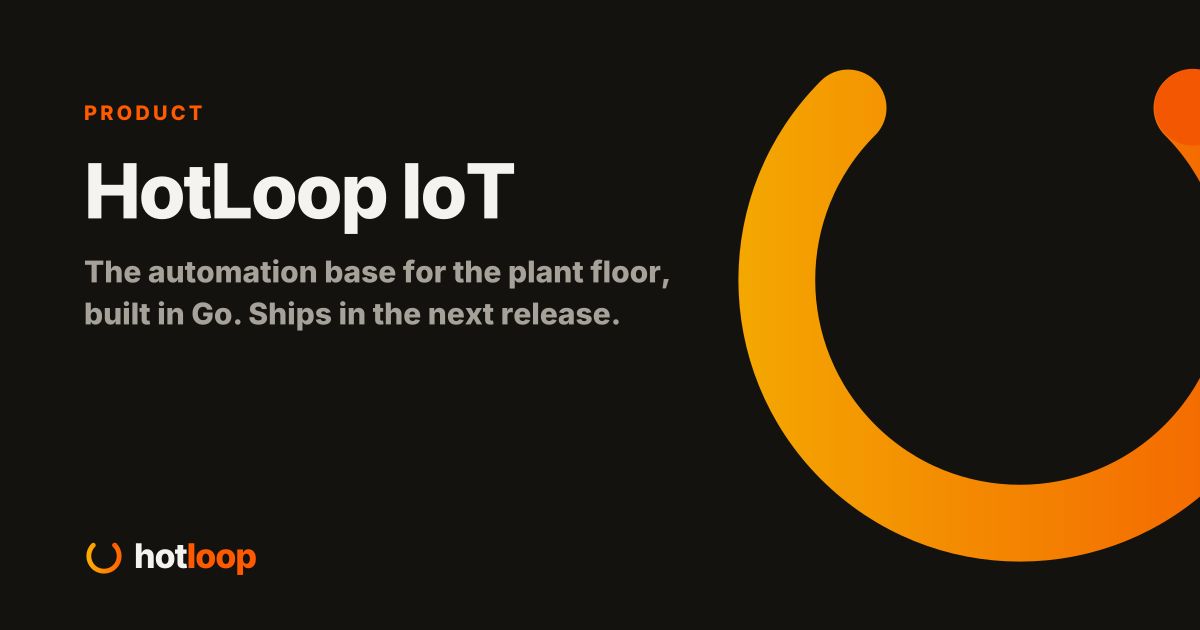
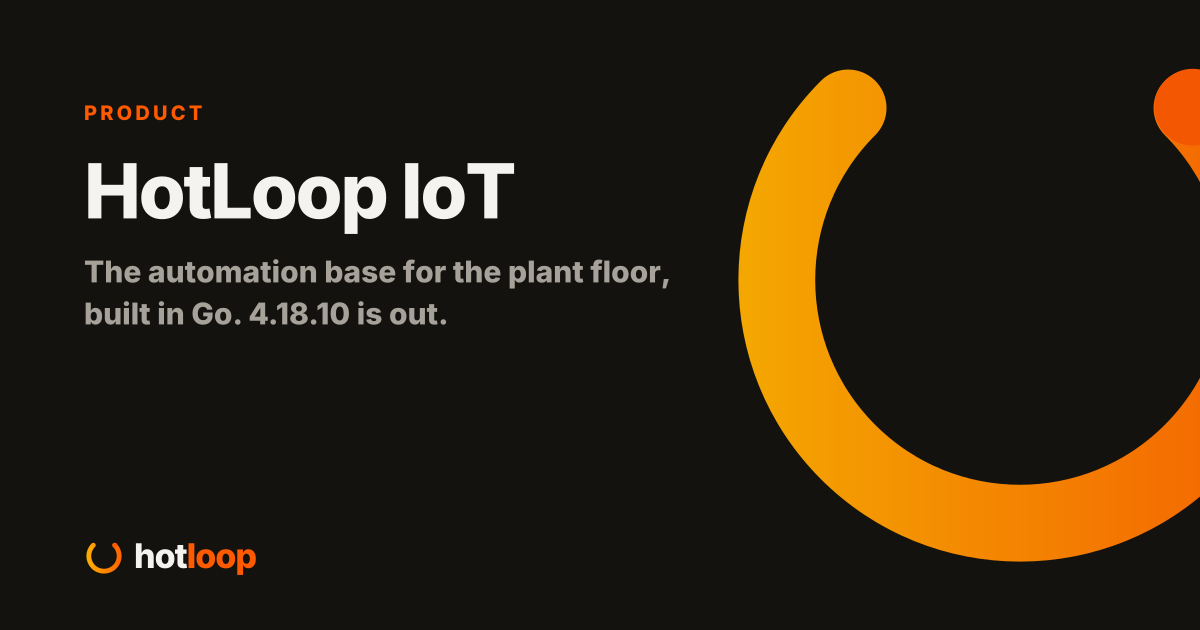
feat: say 4.18.10 is out and fill in iot and edge as released products
the site still said 4.17.0 and told people iot and edge were next release. all four images and charts are public now, so the version, the product pages, the release notes and the unifi page say what shipped, with what isn't proven written down next to it.

Changed region(s): [[0.185, 0.4825, 0.5242, 0.5429]]

diff --git a/src/lib/products.ts b/src/lib/products.ts
@@ -13,7 +13,7 @@
 export type Status = 'released' | 'unverified' | 'main' | 'building' | 'planned';
 
 // The one published version. Change it here when the next release ships.
-export const CURRENT = '4.17.0';
+export const CURRENT = '4.18.10';
 
 export const STATUS: Record<Status, { label: string; chip: 'ok' | 'info' | 'warn' | 'none' }> = {
   released: { label: `In ${CURRENT}`, chip: 'ok' },
@@ -49,7 +49,9 @@ export const PRODUCTS: Product[] = [
     tagline: 'The automation base, built in Go for OT.',
     summary:
       'The base everything else is built on: entities, automations, helpers, scripts, the logbook, dashboards, notifications, MCP, and MQTT with discovery, plus every protocol driver HotLoop has.',
-    installable: false,
+    installable: true,
+    image: 'ghcr.io/hotloop-io/hotloop-iot',
+    chart: 'hotloop-iot',
     databases: 'SQLite or PostgreSQL',
     adds: 'The base',
   },
@@ -60,7 +62,9 @@ export const PRODUCTS: Product[] = [
     tagline: 'IoT plus the machine layer.',
     summary:
       'Everything in IoT, plus what lives next to a machine: HMI screens, PLCs, CODESYS and Pi PLCs, store-and-forward upstream, and an OPC UA server.',
-    installable: false,
+    installable: true,
+    image: 'ghcr.io/hotloop-io/hotloop-edge',
+    chart: 'hotloop-edge',
     databases: 'SQLite, PostgreSQL or TimescaleDB',
     adds: 'HMI, store-and-forward, OPC UA server',
   },
@@ -75,7 +79,6 @@ export const PRODUCTS: Product[] = [
     image: 'ghcr.io/hotloop-io/hotloop',
     chart: 'hotloop',
     databases: 'SQLite, PostgreSQL or TimescaleDB',
-    databasesToday: 'TimescaleDB, or plain PostgreSQL. SQLite is merged and ships in the next release, in the same image.',
     adds: 'Fleet, multi-site, reports',
   },
   {
@@ -111,32 +114,32 @@ export const IOT_FEATURES: Feature[] = [
   { name: 'Scripts', status: 'released', note: 'Write the CIP cycle once, name it, run it from a rule, a screen, MCP or its own entity. A dry run goes through the real gate, so you see the refusal before anything moves.' },
   { name: 'Recipes', status: 'released', note: 'Grade A\'s setpoints off the laminated sheet and into the plant in one go: checked whole, refused whole, written in order and read back from the device.' },
   { name: 'Blueprints', status: 'released', note: 'Write a rule once with blanks and fill it in per pump. Each rule keeps the blueprint version it was made from, so one edit never quietly changes forty rules.' },
-  { name: 'Dashboards', status: 'main', note: 'A card builder with drag and drop: gauges, numbers, trends, entity lists, write buttons, script and recipe buttons, alarm lists, cameras and a floor plan. One layout folds from twelve columns on a panel PC to one on a phone, so nobody ever builds the phone version. A card commands nothing itself, so a button still meets the write gate.' },
+  { name: 'Dashboards', status: 'released', note: 'A card builder with drag and drop: gauges, numbers, trends, entity lists, write buttons, script and recipe buttons, alarm lists, cameras and a floor plan. One layout folds from twelve columns on a panel PC to one on a phone, so nobody ever builds the phone version. A card commands nothing itself, so a button still meets the write gate.' },
   { name: 'ISA-18.2 alarms', status: 'released', note: 'rtn-unack included, so a trip that fixed itself is still there at shift change. Shelving ends, and unshelve brings the alarm back in the state it\'s really in.' },
   { name: 'Notifications', status: 'released', note: 'ntfy, Gotify, Discord, webhooks and email. Press Acknowledge on your phone and the alarm is acknowledged, signed and single use.' },
   { name: 'MCP', status: 'released', note: 'An agent can read the whole plant and touch only what you armed, through the write gate, and never without a stated reason, which goes in the system log next to the write.' },
   { name: 'MQTT and an embedded broker', status: 'released', note: 'Plain topics with JSON paths, Sparkplug B, and a broker in the same process, so one box can be the whole install.' },
-  { name: 'MQTT discovery', status: 'main', note: 'ESPHome, Zigbee2MQTT, Tasmota and Shelly Gen2 and later show up on their own, reading, on the embedded broker or any other. Nothing is armed until a person accepts the device and arms each point, so a device announcing itself never earns the right to flip a relay. Proven against recordings of real devices, not yet a bench of them.' },
-  { name: 'Network discovery', status: 'main', note: 'mDNS and SSDP are overheard, and DHCP is heard if the deployment allows it. Finds land next to the MQTT devices with what they are and how HotLoop could talk to them. Probing stays off until a network is named, because a port sweep has knocked over PLCs. Nothing is added by itself.' },
-  { name: 'Broker logins with rules', status: 'main', note: 'A twelve dollar plug\'s login can\'t publish to the boiler\'s command topic. Logins made in HotLoop carry publish and subscribe rules from a profile, checked on every publish, subscription and outgoing message.' },
-  { name: 'Historian targets', status: 'main', note: 'Every reading also goes to the plant\'s own database: PostgreSQL and TimescaleDB, SQL Server, InfluxDB 2 and 3, MySQL and MariaDB. Same readings, same deadband, same quality. Polling never waits for a target, and one that falls behind catches up from HotLoop\'s own history.' },
-  { name: 'SQLite or PostgreSQL, your pick', status: 'main', note: 'The database is a setting. A Pi can run any product on a SQLite file with no second container and no 300 MB database image on the SD card. Moving between databases is a backup and a restore.' },
-  { name: 'Updates that roll themselves back', status: 'main', note: 'Boxes follow the stable tag and update themselves, and an update that can\'t pass its healthcheck is rolled back instead of reported as a success. That is only safe because migrations only add.' },
+  { name: 'MQTT discovery', status: 'released', note: 'ESPHome, Zigbee2MQTT, Tasmota and Shelly Gen2 and later show up on their own, reading, on the embedded broker or any other. Nothing is armed until a person accepts the device and arms each point, so a device announcing itself never earns the right to flip a relay. Proven against recordings of real devices, not yet a bench of them.' },
+  { name: 'Network discovery', status: 'released', note: 'mDNS and SSDP are overheard, and DHCP is heard if the deployment allows it. Finds land next to the MQTT devices with what they are and how HotLoop could talk to them. Probing stays off until a network is named, because a port sweep has knocked over PLCs. Nothing is added by itself.' },
+  { name: 'Broker logins with rules', status: 'released', note: 'A twelve dollar plug\'s login can\'t publish to the boiler\'s command topic. Logins made in HotLoop carry publish and subscribe rules from a profile, checked on every publish, subscription and outgoing message.' },
+  { name: 'Historian targets', status: 'released', note: 'Every reading also goes to the plant\'s own database: PostgreSQL and TimescaleDB, SQL Server, InfluxDB 2 and 3, MySQL and MariaDB. Same readings, same deadband, same quality. Polling never waits for a target, and one that falls behind catches up from HotLoop\'s own history.' },
+  { name: 'SQLite or PostgreSQL, your pick', status: 'released', note: 'The database is a setting. A Pi can run any product on a SQLite file with no second container and no 300 MB database image on the SD card. Moving between databases is a backup and a restore.' },
+  { name: 'Updates that roll themselves back', status: 'released', note: 'Boxes follow the stable tag and update themselves, and an update that can\'t pass its healthcheck is rolled back instead of reported as a success. That is only safe because migrations only add.' },
   { name: 'Every protocol driver', status: 'released', note: 'OPC UA, Modbus, MQTT and Sparkplug B, EtherNet/IP, S7comm, MTConnect and HTTP. Protocols don\'t split the products, so nobody runs the Gateway just to reach one PLC.' },
   { name: 'UniFi, read-only', status: 'released', note: 'Devices, ports, PoE, WAN failover and clients as tags, and a quiet PLC tells you which switch port it\'s on. WAN health comes from the console\'s own checks, so a backup link that\'s been dead for two days reads dead. Nothing writes to a console yet.' },
-  { name: 'UniFi screens and events', status: 'main', note: 'An overview with the WAN strip, a topology map laid out the same way every time, switch faceplates, clients, networks and WiFi, plus the console\'s event stream so a switch dropping off lands in the logbook in seconds. Proven against a lab controller, not yet looked at on real gear.' },
+  { name: 'UniFi screens and events', status: 'released', note: 'An overview with the WAN strip, a topology map laid out the same way every time, switch faceplates, clients, networks and WiFi, plus the console\'s event stream so a switch dropping off lands in the logbook in seconds. Proven against a lab controller, not yet looked at on real gear.' },
   { name: 'UniFi writes', status: 'planned', note: 'Writes through the gate, starting with the locate LED. Then Protect, Access and PDUs, each only after it has run on real gear. Nothing writes to a console today.' },
   { name: 'Backups and restore', status: 'released', note: 'Pure Go over the database connection, in IoT, Edge and the Gateway. It\'s also how you move between them, so it has to work every time.' },
 ];
 
 // What Edge adds on top of IoT.
 export const EDGE_FEATURES: Feature[] = [
-  { name: 'HMI screens', status: 'main', note: 'A dashboard bound to a physical screen opens full bleed on the machine\'s panel with no header, no tabs and bigger touch targets. That is all of it so far: the ISA-101 symbol library, the motor and valve faceplates and PIN sign-in for shared panels are not built.' },
+  { name: 'HMI screens', status: 'released', note: 'A dashboard bound to a physical screen opens full bleed on the machine\'s panel with no header, no tabs and bigger touch targets. That is all of it so far: the ISA-101 symbol library, the motor and valve faceplates and PIN sign-in for shared panels are not built.' },
   { name: 'PLCs', status: 'released', note: 'The native drivers read and write PLCs directly. S7comm and EtherNet/IP are decode tested and have never touched a physical PLC, and the integrations page says so.' },
   { name: 'CODESYS', status: 'unverified', note: 'A CODESYS runtime is an OPC UA server or a Modbus TCP slave, and HotLoop speaks both. It has not been run against a CODESYS runtime yet.' },
   { name: 'Pi PLCs', status: 'unverified', note: 'Raspberry Pi based PLCs talk Modbus TCP, and most can run CODESYS. Reached that way today. Not yet run against one on the bench.' },
   { name: 'Store-and-forward', status: 'released', note: 'Publishes upstream as a Sparkplug B edge node. When the link drops it buffers to disk and replays in order, so the historian upstream has no hole in it.' },
-  { name: 'Runs with the WAN dead', status: 'main', note: 'A real Edge was booted with its uplink pointed at a link that eats every packet, and the screen, a write, a script, a recipe, an automation and an alarm all worked. A box rebooted mid-outage used to crash-loop. The queue is memory first and disk only when the broker stops confirming, replays oldest first, and is capped at 64 MiB by default.' },
+  { name: 'Runs with the WAN dead', status: 'released', note: 'A real Edge was booted with its uplink pointed at a link that eats every packet, and the screen, a write, a script, a recipe, an automation and an alarm all worked. A box rebooted mid-outage used to crash-loop. The queue is memory first and disk only when the broker stops confirming, replays oldest first, and is capped at 64 MiB by default.' },
   { name: 'OPC UA server', status: 'released', note: 'Read-only and secured, and Ignition 8.3.9 reads it end to end. The SCADA you already own sees every tag without a new driver.' },
 ];
 

diff --git a/src/content/releases/gateway/4.18.10.md b/src/content/releases/gateway/4.18.10.md
@@ -1,0 +1,25 @@
+---
+product: gateway
+version: "4.18.10"
+date: 2026-10-21
+published: true
+summary: "HotLoop stops being one image. IoT and Edge ship for the first time, beside the Gateway and the Edge Relay, all four from one tag with their own images and charts."
+highlights:
+  - "Four products, four images, four charts, one tag. hotloop-iot and hotloop-edge are new on ghcr.io and in the chart repository at https://hotloop.io/hotloop. The Gateway keeps ghcr.io/hotloop-io/hotloop and the chart hotloop, so nobody running it changes anything. A product is a build, not a setting: the OPC UA server isn't switched off in the IoT image, it isn't in it."
+  - "MQTT discovery: point ESPHome, Zigbee2MQTT, Tasmota or a Shelly at the broker and it shows up, reading. It can't command anything until an admin accepts it and arms each point by hand. Network discovery listens and sends nothing unless you list a network to probe."
+  - "Historian targets: every reading HotLoop keeps also goes to the plant's own PostgreSQL, TimescaleDB, SQL Server, InfluxDB or MySQL/MariaDB, the same rows with the same quality."
+  - "The database is a setting: SQLite, PostgreSQL or TimescaleDB per product, from the same binary, so a Pi doesn't need a 300 MB database image."
+  - "Edge keeps the plant running with the WAN dead, and its store and forward queue survives a boot during an outage, a link that dies without a reset, and a replay that has to outrun the plant."
+  - "Every box follows :stable and updates itself, and a release that can't start is rolled back. Migrations only add, and an app refuses to start on a schema two releases ahead of it, so that rollback is always safe."
+  - "UniFi on a wall board and a phone: a zooming network map, traces for WAN latency and port traffic, one button that makes the usual alarms, and UniFi events in the logbook under the switch they are about. An agent can ask over MCP for the topology and the console's latest events."
+  - "The Edge Relay takes a pushed config live with no restart and no lost Sparkplug session, and discovers devices on a broker like the Gateway does."
+  - "The license changed: all four products are under the HotLoop Business Source License 1.1. Home and lab use is free, so is use by schools, nonprofits and government, and business use goes through EmberNET."
+  - "Fixed on the way: a discovered device's value could be lost behind its own nothing-yet reading, the embedded MQTT broker mishandled packet ids in both directions, and a dashboard that was still loading could put a person back on the one they had just left."
+breaking:
+  - "Upgrade from 4.17.0 with --reset-then-reuse-values or your values file. Plain --reuse-values renders, but it replays 4.17.0's values and drops every new default."
+  - "edgePublish.queueMaxBytes defaults to 64 MiB now, not unbounded. Past it the oldest readings are dropped and counted. Size it from your own reading rate, about 180 bytes a reading, or set it to 0 to keep the old behavior."
+  - "Migrations 0016 to 0024 run on start. Migrations only add, and going back to 4.17.0 works, but take a pg_dump first."
+  - "Logins made in Settings, MQTT carry topic rules from a profile. Logins from HOTLOOP_BROKER_USERS are untouched. There is a new fleet.update permission, admin only."
+---
+
+IoT, Edge, the Gateway and the Edge Relay all ship from this tag, in lockstep. 4.18.0 through 4.18.7 and 4.18.9 died in the Test job on real bugs, and 4.18.8 passed Test and was cancelled by mistake in the middle of publishing, so its four images were pushed as 4.18.8 and no chart and no release ever went out. 4.18.10 supersedes all of them. What isn't proven yet: the IoT and Edge Quadlet units under systemd, except IoT's SQLite unit, which was run, moving a site up a product as a helm upgrade on a real cluster, discovery against real devices on a bench, and the 32-bit arm images on real hardware.
